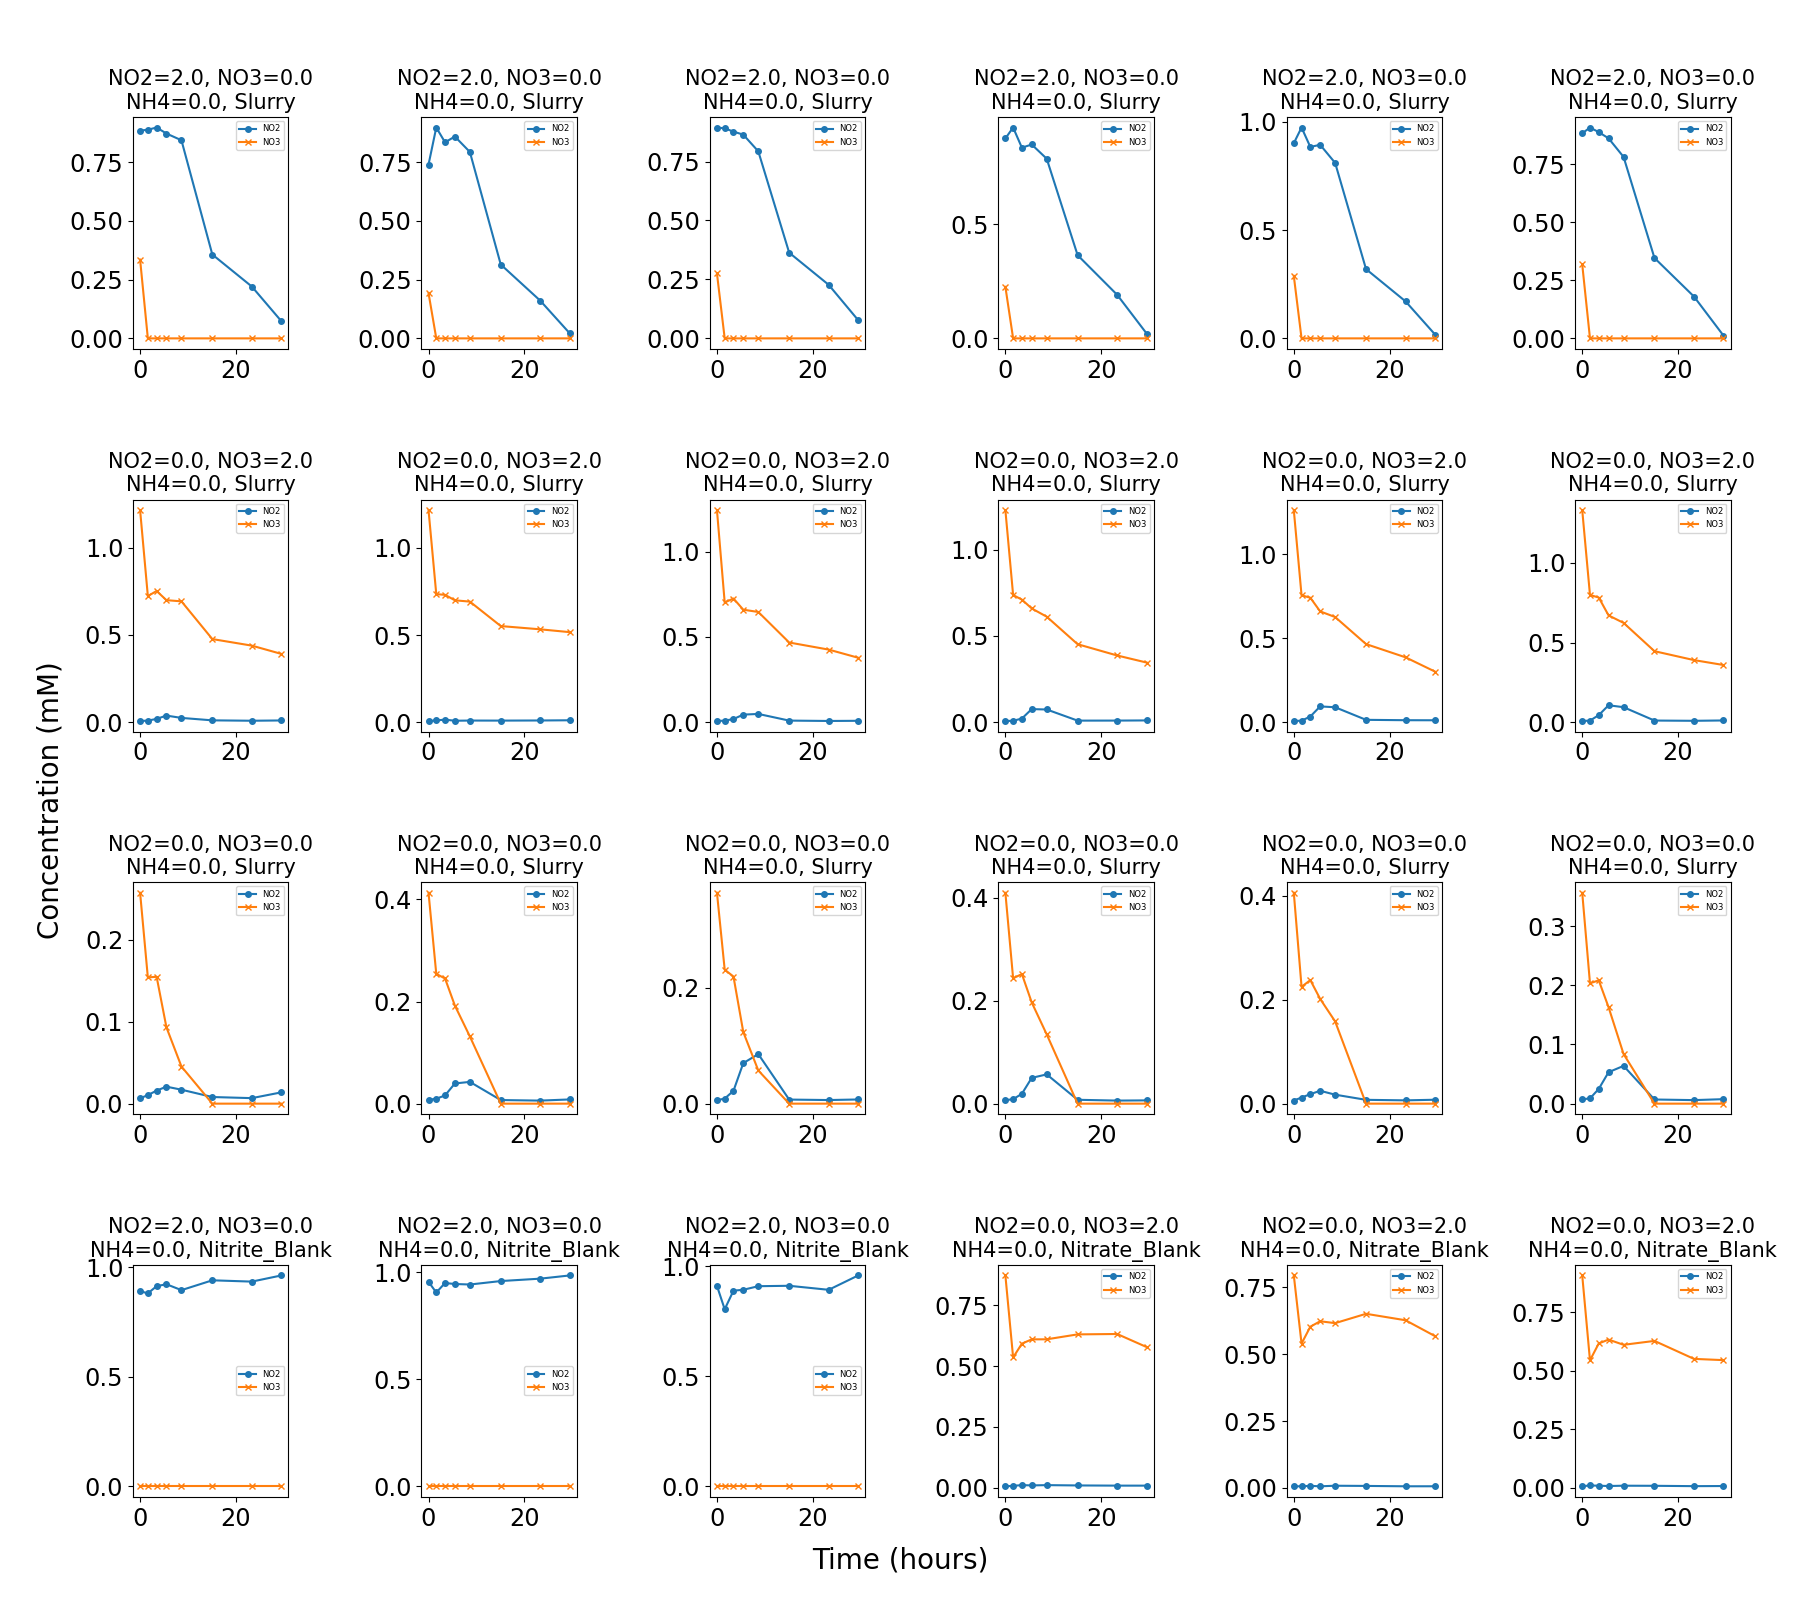
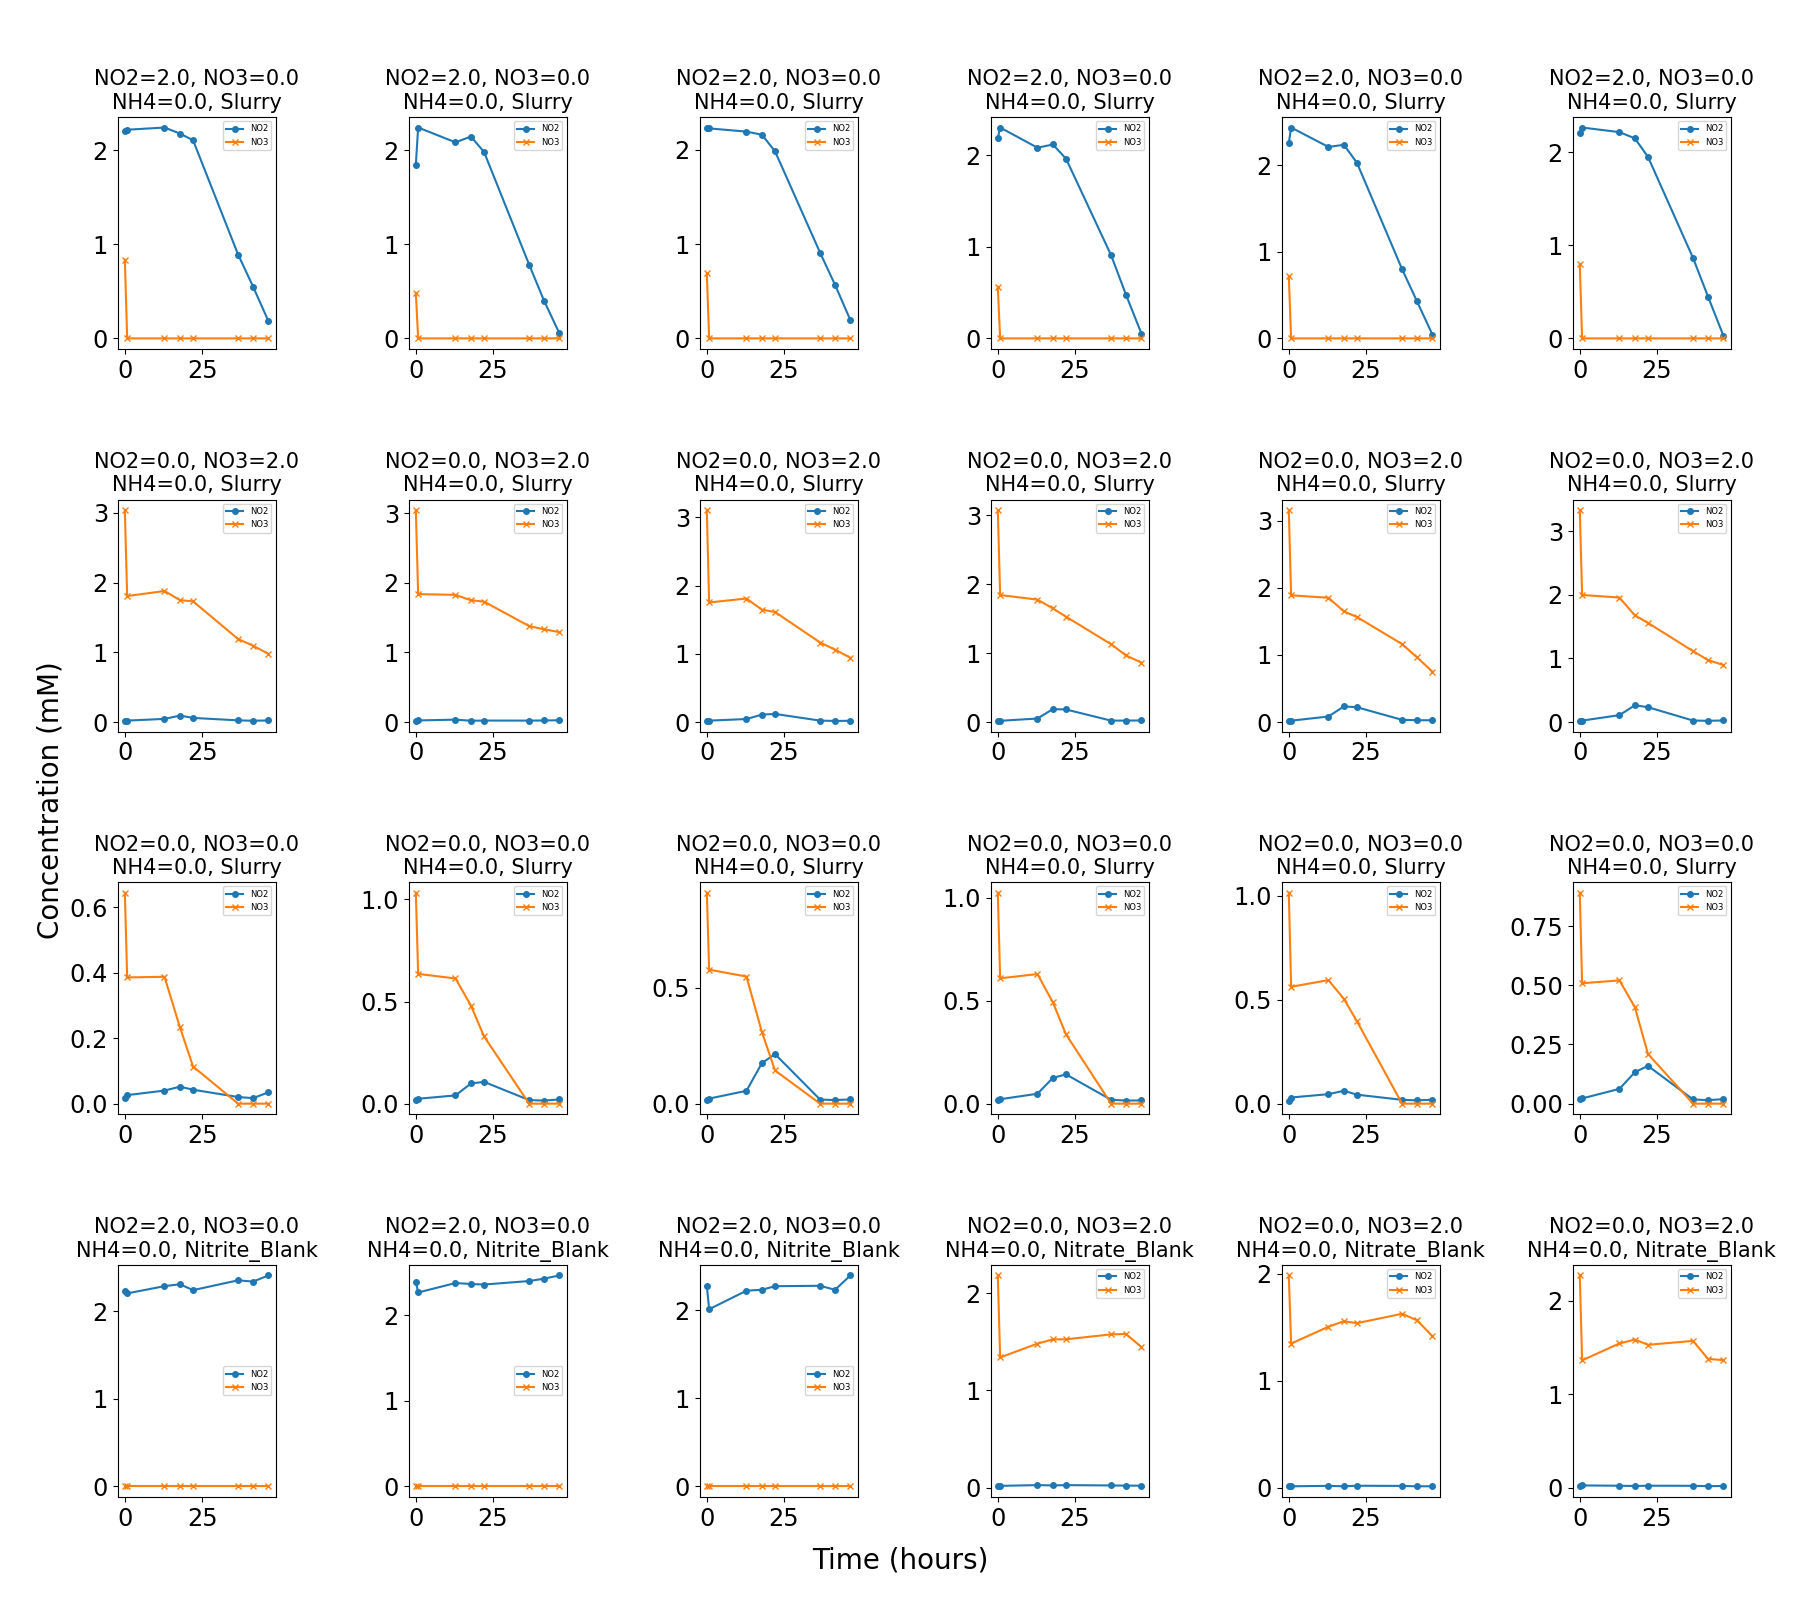
.

diff --git a/griess.py b/griess.py
@@ -1128,7 +1128,7 @@ def get_concentration_xlsx(excel_output, no2_blank, no2no3_blank, g_fit, v_fit, 
 
 
 def get_concentration(no2_blank, no2no3_blank, g_fit, v_fit, meta_fn, no2_fn=None, no2_540_fn=None,
-                           no2_900_fn=None, no2no3_fn=None, no2no3_540_fn=None, no2no3_900_fn=None):
+                           no2_900_fn=None, no2no3_fn=None, no2no3_540_fn=None, no2no3_900_fn=None, extract_factor = 2.5): # Editted by Ikchang
     # read NO2
     print(meta_fn)
     print("Before subtracting blank value")
@@ -1164,6 +1164,10 @@ def get_concentration(no2_blank, no2no3_blank, g_fit, v_fit, meta_fn, no2_fn=Non
     NO2NO3_mM[NO2NO3_mM < 0] = 0.0  # make it zero if it is less than zero
     NO3_mM = (NO2NO3_mM - NO2_mM).rename("NO3_mM")  ## solve quadratic formula
     NO3_mM[NO3_mM < 0] = 0.0  # make it zero if it is less than zero
+
+    NO2_mM = NO2_mM * extract_factor
+    NO2NO3_mM = NO2NO3_mM * extract_factor
+    NO3_mM = NO3_mM * extract_factor
 
     print(NO2_mM)
     print(NO2NO3_mM)

diff --git a/plots_20240927.py b/plots_20240927.py
@@ -117,5 +117,5 @@ for no2_540_fn, no2_900_fn, no2no3_540_fn, no2no3_900_fn in zip(no2_540_fns, no2
 no2_time_series = pd.DataFrame(no2_time_series_dic)
 no3_time_series = pd.DataFrame(no3_time_series_dic)
 meta_df = pd.read_csv(meta_fn).dropna(how='all')
-time = np.array([0, 97, 207, 330, 518, 905, 1400, 1770])/60
+time = np.array([0, 22*60 + 35-21*60-50, 34*60 + 40-21*60-50, 39*60 + 40-21*60-50, 43*60+55-21*60-50, 58*60+30-21*60-50, 63*60+20-21*60-50, 68*60+19-21*60-50])/60
 six_col_plot(no2_time_series, no3_time_series, meta_df)
